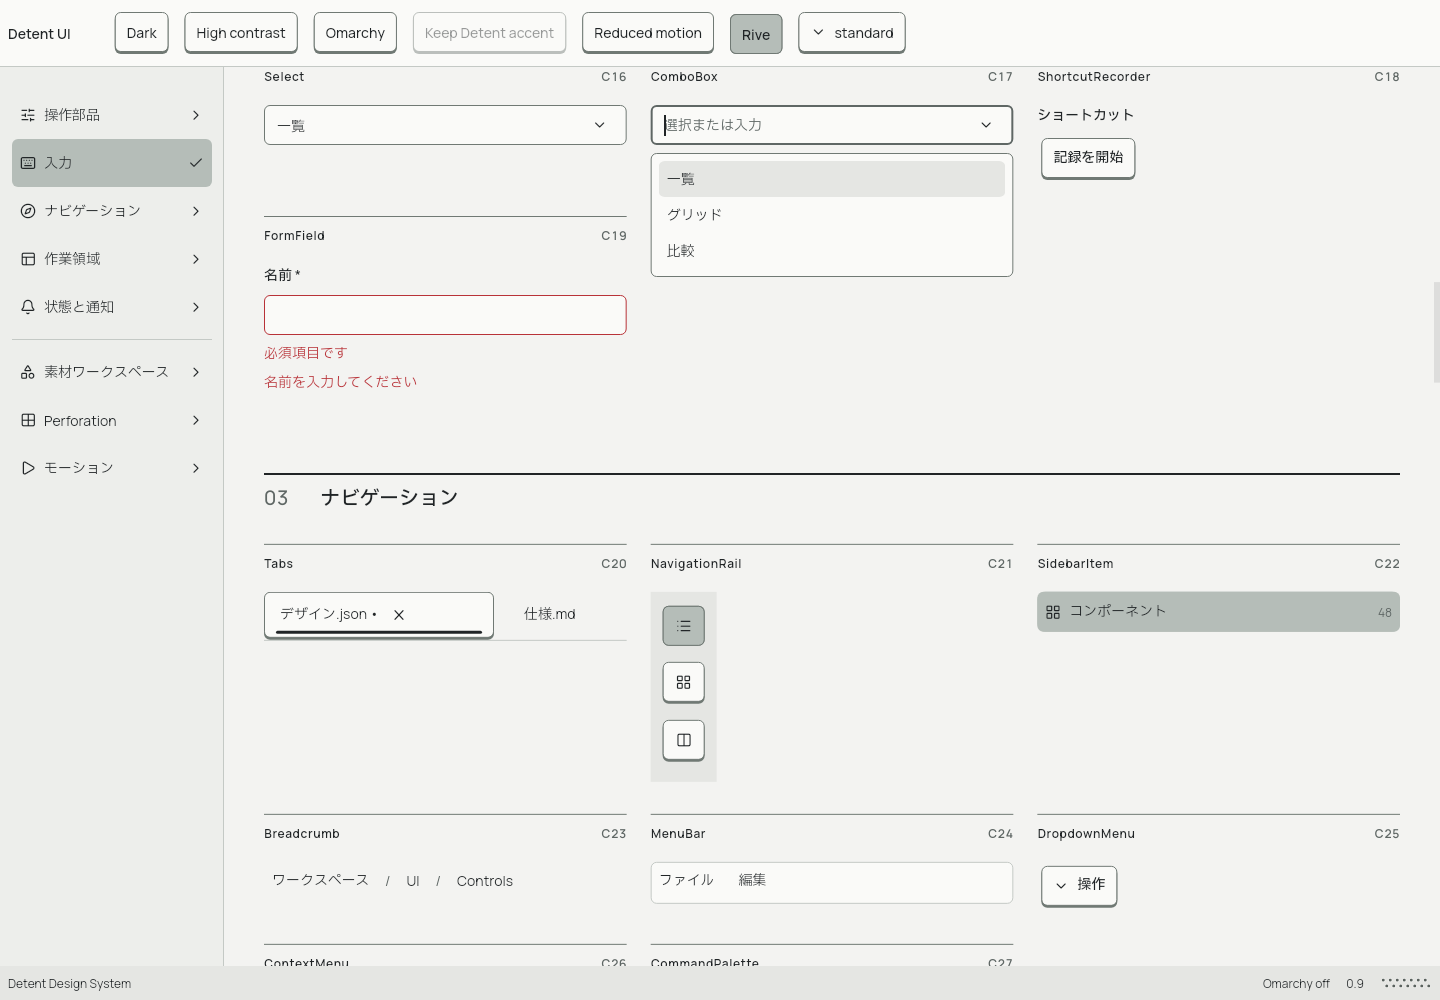
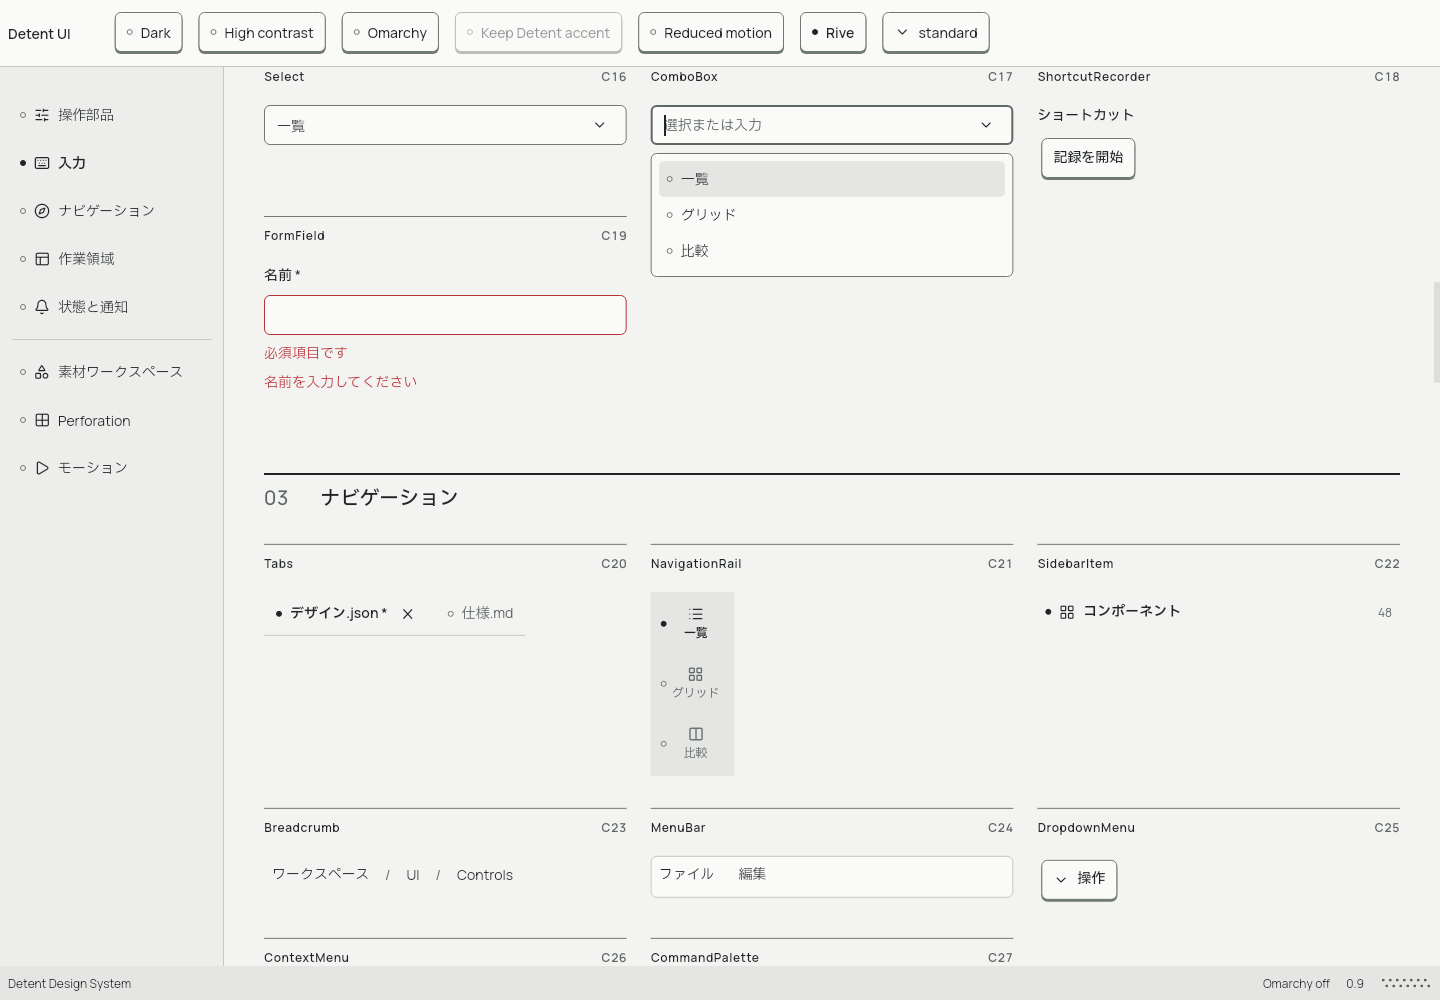
chore(example): ギャラリーを表示灯に揃え、スクリーンショットを更新
ギャラリーのナビ項目を灯に変え、不要になったスライド動画と撮影用ループを削除。

diff --git a/example/test/component_review_test.dart b/example/test/component_review_test.dart
@@ -28,7 +28,7 @@ void main() {
             ))
             .load();
       }
-      final boundary = GlobalKey(), segment = GlobalKey();
+      final boundary = GlobalKey();
       var value = 0;
       Widget row(String label, Widget child) => Padding(
         padding: const EdgeInsets.only(bottom: 16),
@@ -90,25 +90,22 @@ void main() {
                         ),
                         row(
                           'SegmentedControl',
-                          RepaintBoundary(
-                            key: segment,
-                            child: DetentSegmentedControl(
-                              options: const [
-                                DetentOption(0, '一覧', icon: FLucideIcons.list),
-                                DetentOption(
-                                  1,
-                                  'グリッド',
-                                  icon: FLucideIcons.layoutGrid,
-                                ),
-                                DetentOption(
-                                  2,
-                                  '比較',
-                                  icon: FLucideIcons.columns2,
-                                ),
-                              ],
-                              value: value,
-                              onChanged: (v) => set(() => value = v),
-                            ),
+                          DetentSegmentedControl(
+                            options: const [
+                              DetentOption(0, '一覧', icon: FLucideIcons.list),
+                              DetentOption(
+                                1,
+                                'グリッド',
+                                icon: FLucideIcons.layoutGrid,
+                              ),
+                              DetentOption(
+                                2,
+                                '比較',
+                                icon: FLucideIcons.columns2,
+                              ),
+                            ],
+                            value: value,
+                            onChanged: (v) => set(() => value = v),
                           ),
                         ),
                       ],
@@ -144,27 +141,14 @@ void main() {
 
       await t.pump(const Duration(milliseconds: 300));
       await capture(boundary, '/tmp/detent-component-detail.png');
-      for (var i = 0; i < 60; i++) {
-        if ([6, 18, 30].contains(i)) {
-          await t.tap(
-            find.descendant(
-              of: find.byType(DetentSegmentedControl<int>),
-              matching: find.text(
-                i == 6
-                    ? '比較'
-                    : i == 18
-                    ? '一覧'
-                    : 'グリッド',
-              ),
-            ),
-          );
-        }
-        await t.pump(const Duration(milliseconds: 16));
-        await capture(
-          segment,
-          '/tmp/detent-slide-${i.toString().padLeft(2, '0')}.png',
-        );
-      }
+      // Choosing an option moves the lit lamp; nothing slides (§5.10).
+      await t.tap(
+        find.descendant(
+          of: find.byType(DetentSegmentedControl<int>),
+          matching: find.text('グリッド'),
+        ),
+      );
+      await t.pump();
       expect(value, 1);
       expect(t.takeException(), isNull);
       await t.pumpWidget(const SizedBox());

diff --git a/example/lib/workshop_navigation.dart b/example/lib/workshop_navigation.dart
@@ -1,6 +1,9 @@
 import 'package:detent_ui/detent_ui.dart';
 import 'package:flutter/widgets.dart';
 
+/// The gallery's own navigation row. Like every selectable item it marks the
+/// current section with the selection lamp only: no surface, chevron or check
+/// (DESIGN_SYSTEM.md §5.10).
 class WorkshopNavigationItem extends StatelessWidget {
   const WorkshopNavigationItem({
     super.key,
@@ -20,31 +23,20 @@ class WorkshopNavigationItem extends StatelessWidget {
   @override
   Widget build(BuildContext context) {
     final theme = DetentTheme.of(context);
-    final foreground = selected ? theme.selectionForeground : theme.ink;
-    return IconTheme.merge(
-      data: IconThemeData(color: foreground),
-      child: DetentTile(
-        leading: Icon(icon),
-        title: Text(label),
-        subtitle: description == null
-            ? null
-            : Text(
-                description!,
-                style: theme.textTheme.caption.copyWith(
-                  color: selected ? foreground : theme.muted,
-                ),
-              ),
-        trailing: Icon(
-          selected ? FLucideIcons.check : FLucideIcons.chevronRight,
-        ),
-        selected: selected,
-        selectedTileColor: theme.selectionSurface,
-        hoverColor: selected ? theme.selectionSurface : theme.surface,
-        selectedColor: foreground,
-        minTileHeight: theme.controlHeight + 8,
-        contentPadding: const EdgeInsets.symmetric(horizontal: 8, vertical: 6),
-        onTap: onPressed,
-      ),
+    return DetentTile(
+      lamp: true,
+      leading: Icon(icon),
+      title: Text(label),
+      subtitle: description == null
+          ? null
+          : Text(
+              description!,
+              style: theme.textTheme.caption.copyWith(color: theme.muted),
+            ),
+      selected: selected,
+      minTileHeight: theme.controlHeight + 8,
+      contentPadding: const EdgeInsets.symmetric(horizontal: 8, vertical: 6),
+      onTap: onPressed,
     );
   }
 }
